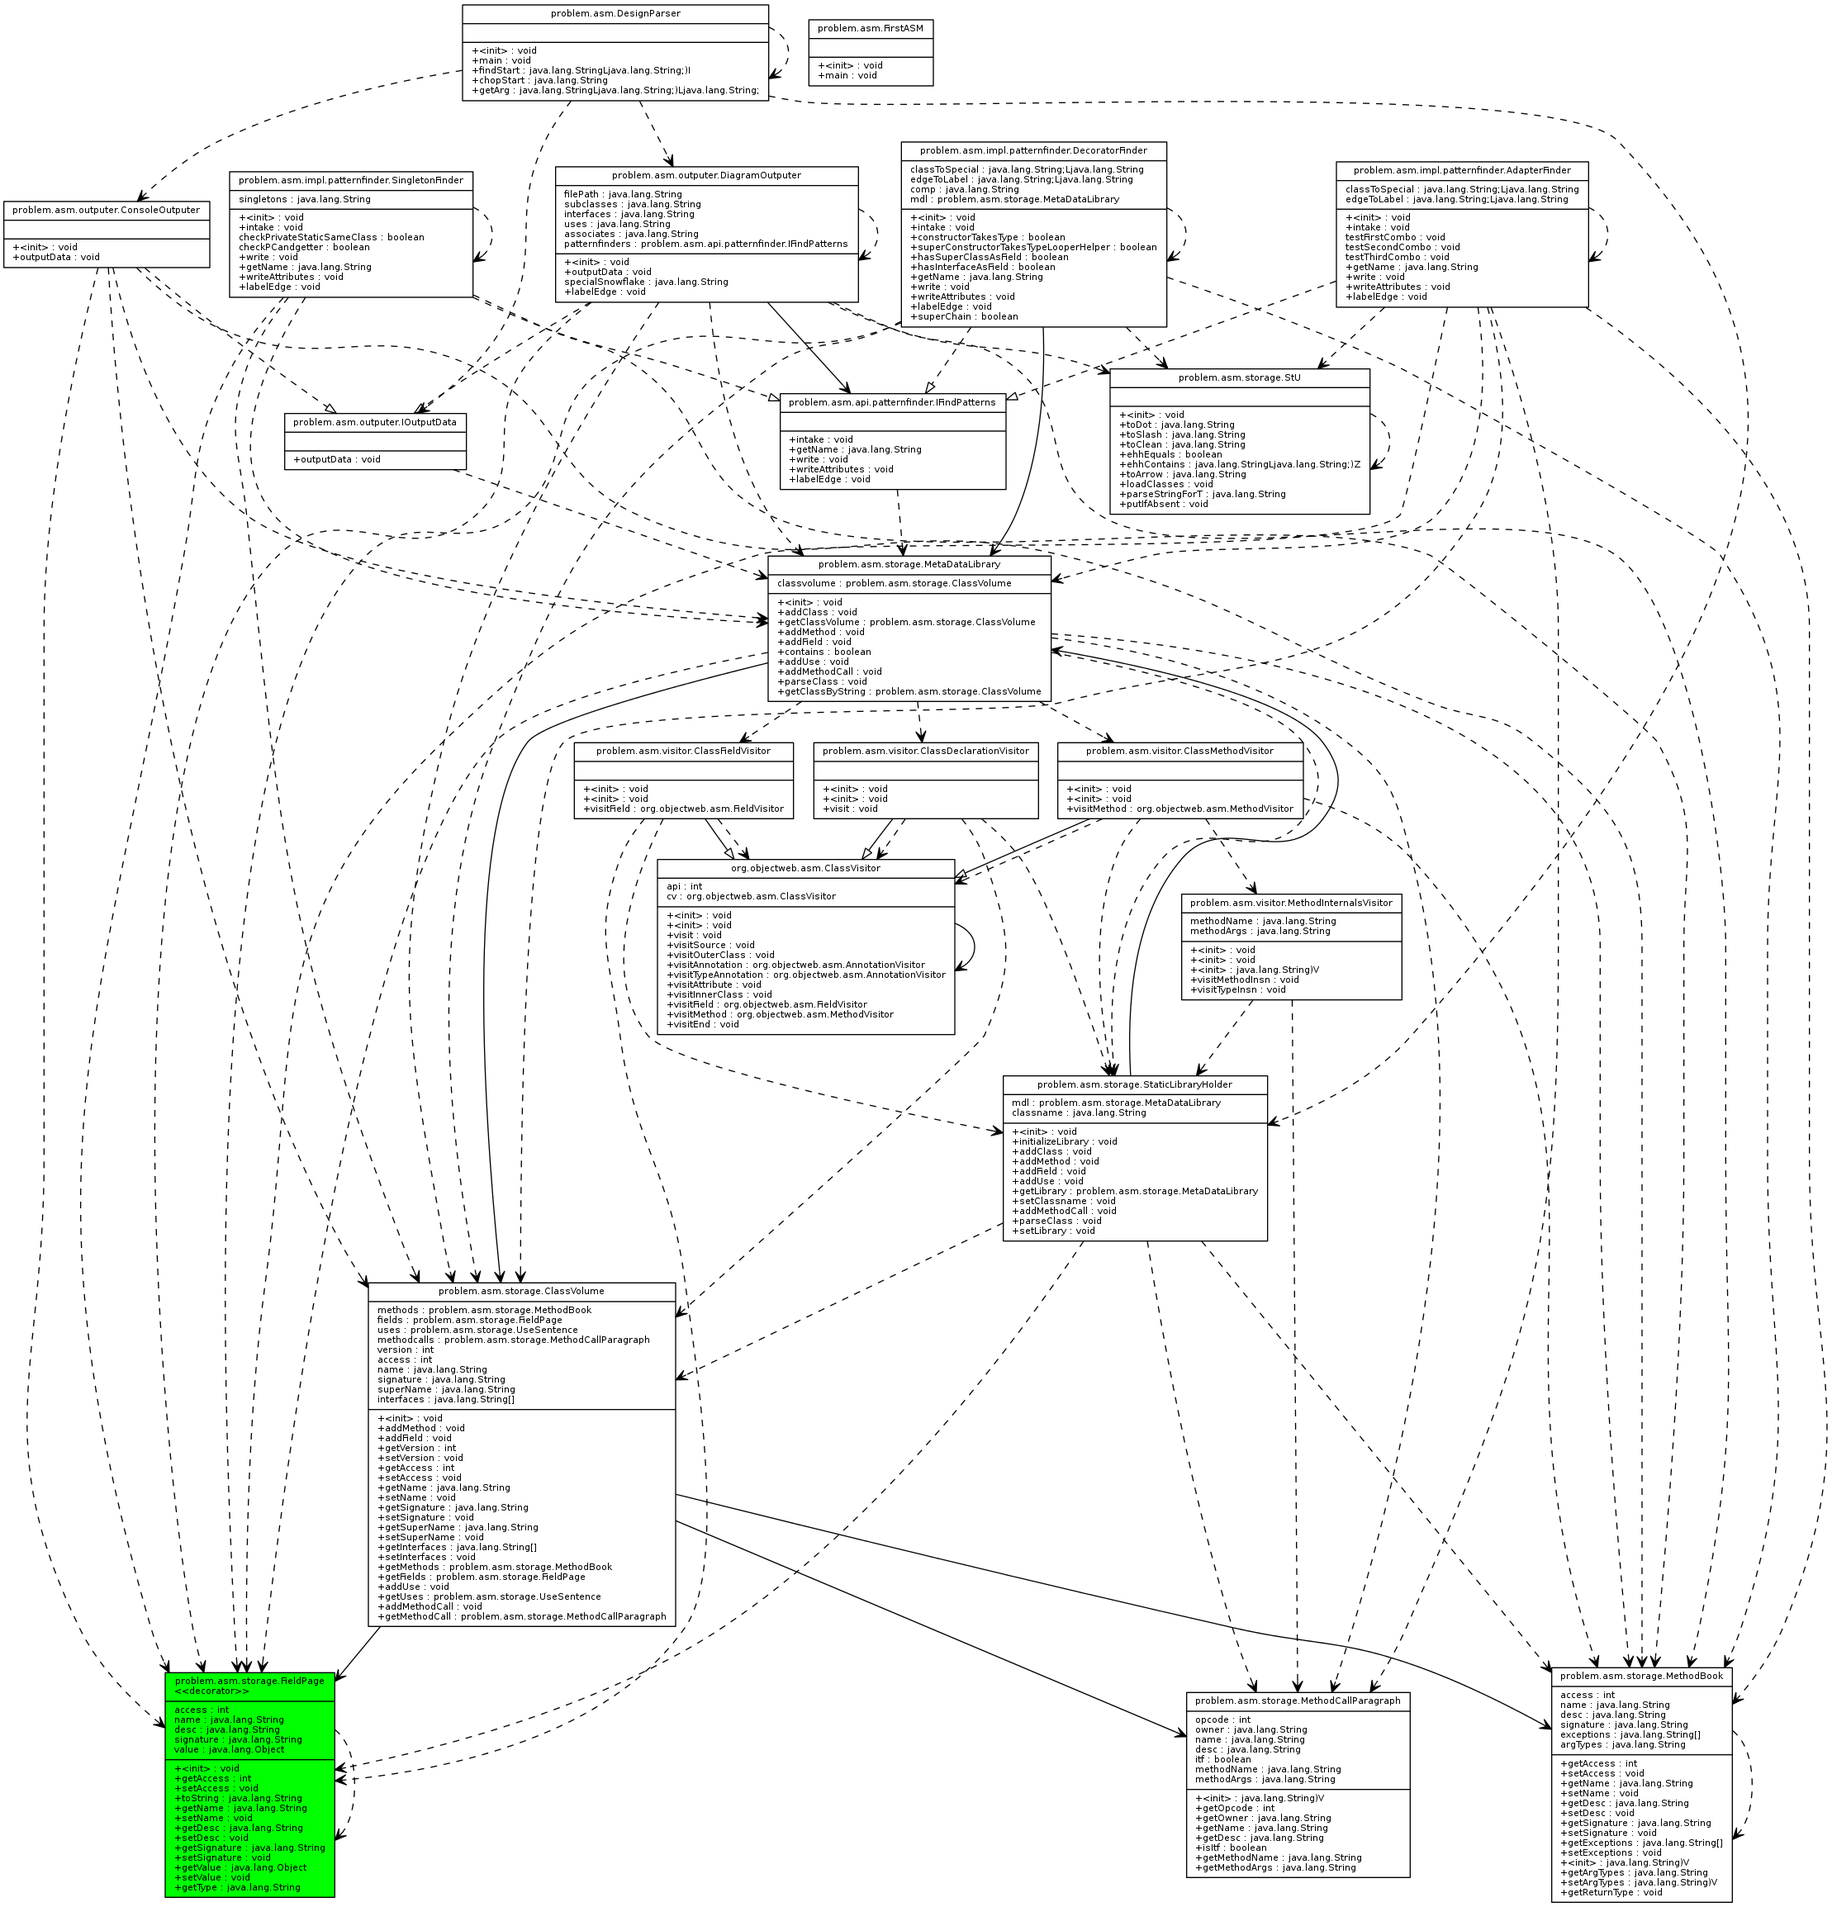
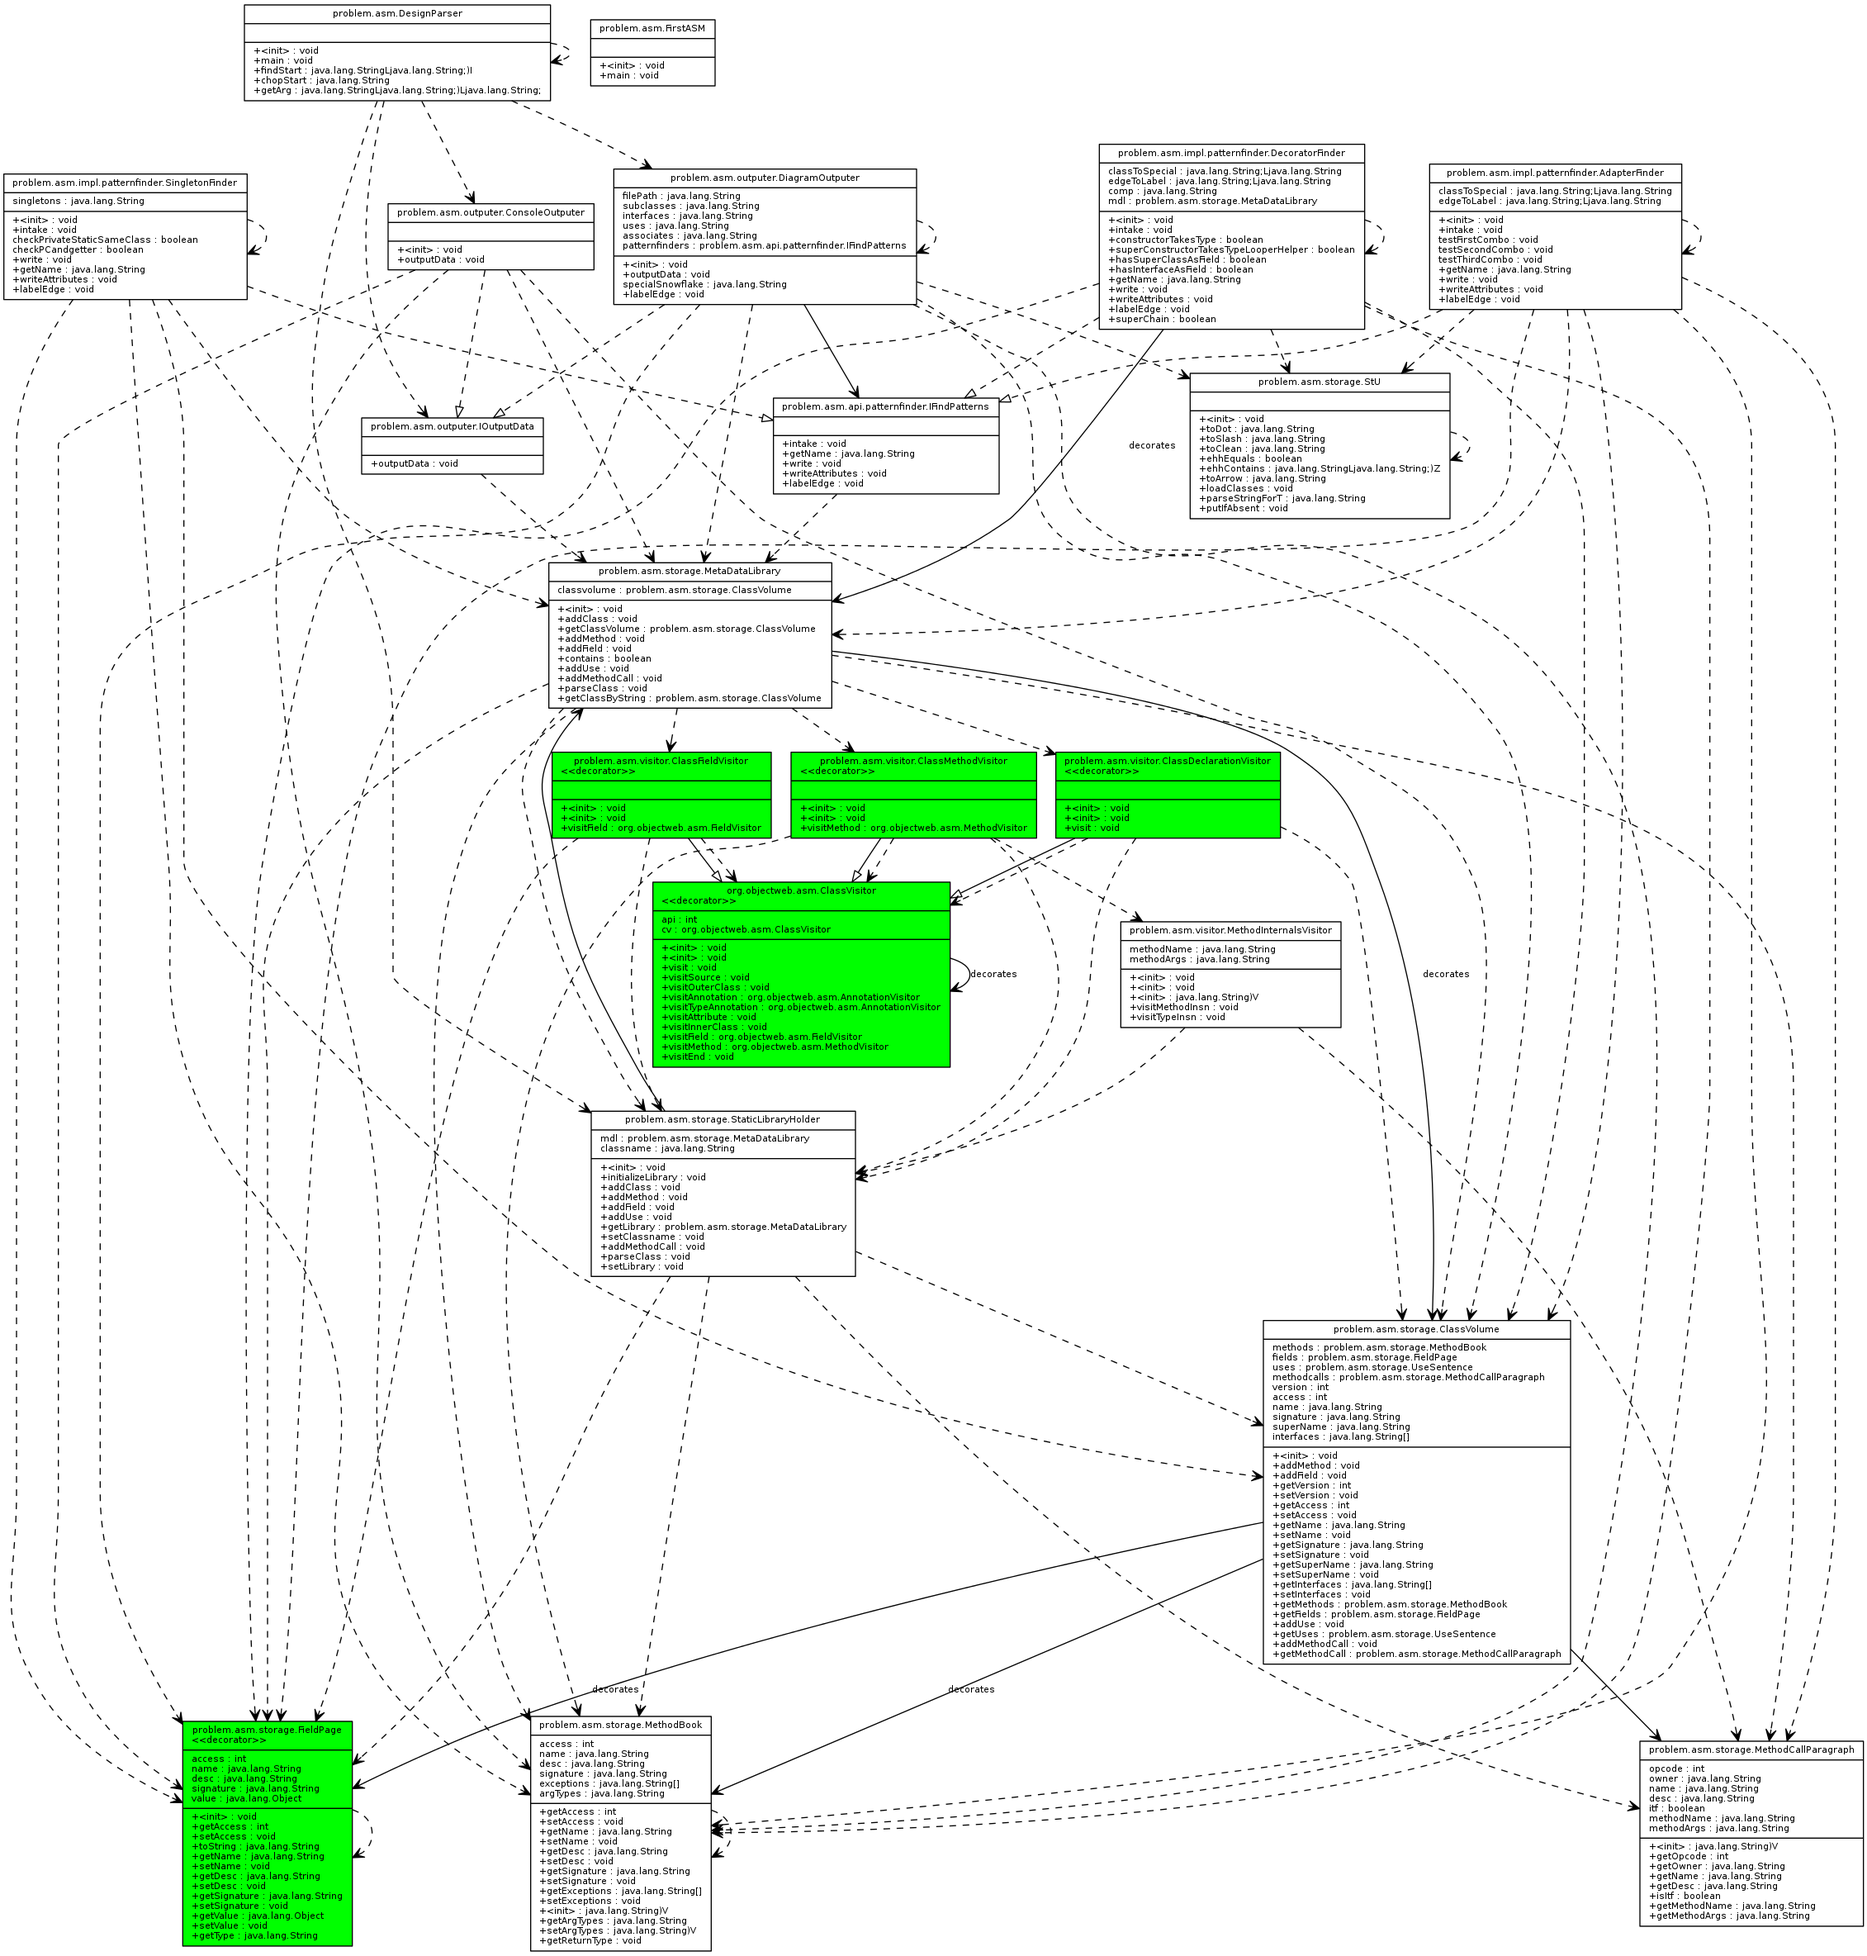
stuff stuff

diff --git a/src/problem/asm/impl/patternfinder/DecoratorFinder.java b/src/problem/asm/impl/patternfinder/DecoratorFinder.java
@@ -35,7 +35,9 @@ public class DecoratorFinder implements IFindPatterns {
 						component = this.comp;
 						for (String c : component) {
 							classToSpecial.put(StU.toDot(cv.getName()), "decorator");
-							classToSpecial.put(c, "component");
+//							classToSpecial.put(c, "component");
+							// Being a decorator is more important than being a component
+							StU.putIfAbsent(c, "component", classToSpecial);
 							edgeToLabel.put(cv.getName().replace("/", "").replace(".", "") + " -> " + c.replace("/", "").replace(".", ""), "decorates");
 						}
 					}
@@ -143,9 +145,15 @@ public class DecoratorFinder implements IFindPatterns {
 	}
 	
 	public boolean superChain(ClassVolume cv, MetaDataLibrary mdl) {
+//		System.out.println("chocolate");
 		for (String s : classToSpecial.keySet()) {
-			if (StU.ehhEquals(cv.getName(), s) && classToSpecial.get(s).equals("decorator")) {
-				return true;
+//			System.out.println(" " + cv.getName());
+//			System.out.println(" " + s);
+			if (StU.ehhEquals(cv.getName(), s)) {
+				System.out.println("hrmmmf");
+				System.out.println(s + " " + classToSpecial.get(s));
+				if (classToSpecial.get(s).equals("decorator"))
+					return true;
 			}
 		}
 		if (mdl.contains(cv.getSuperName())) {
